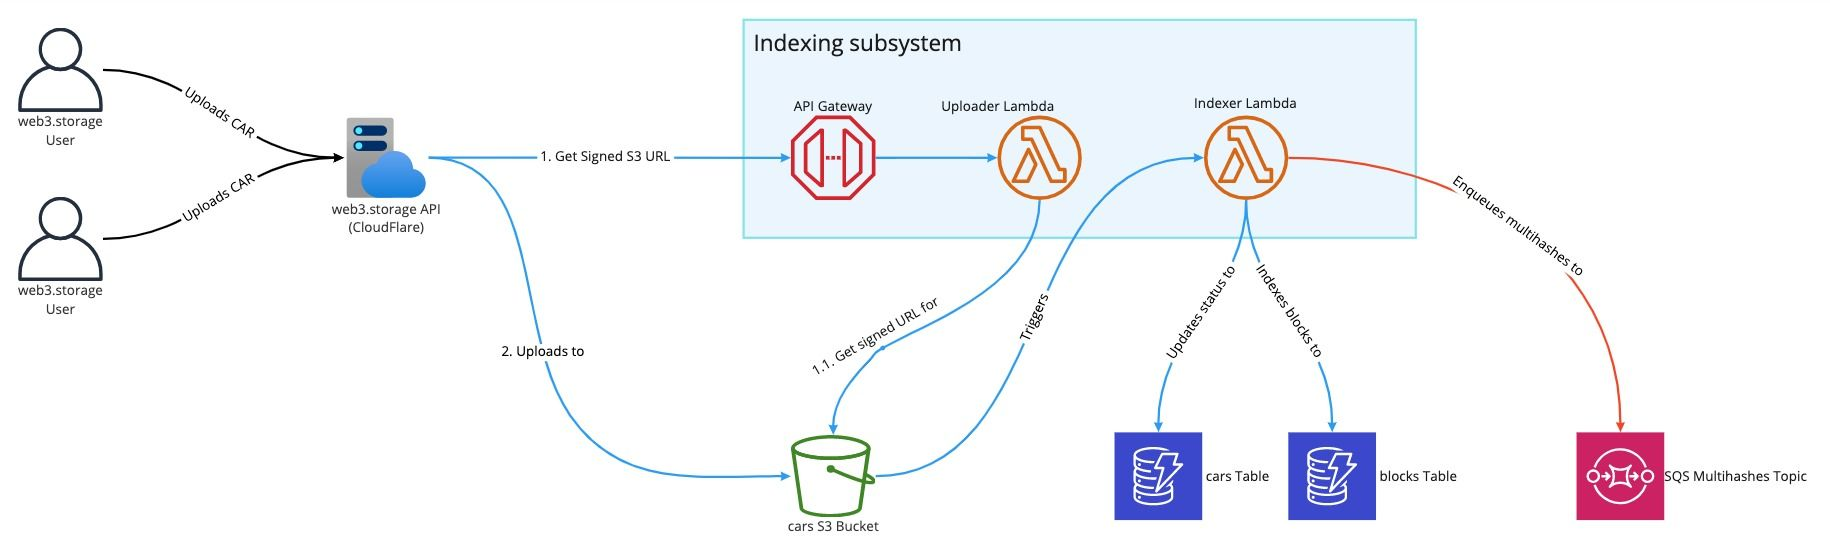
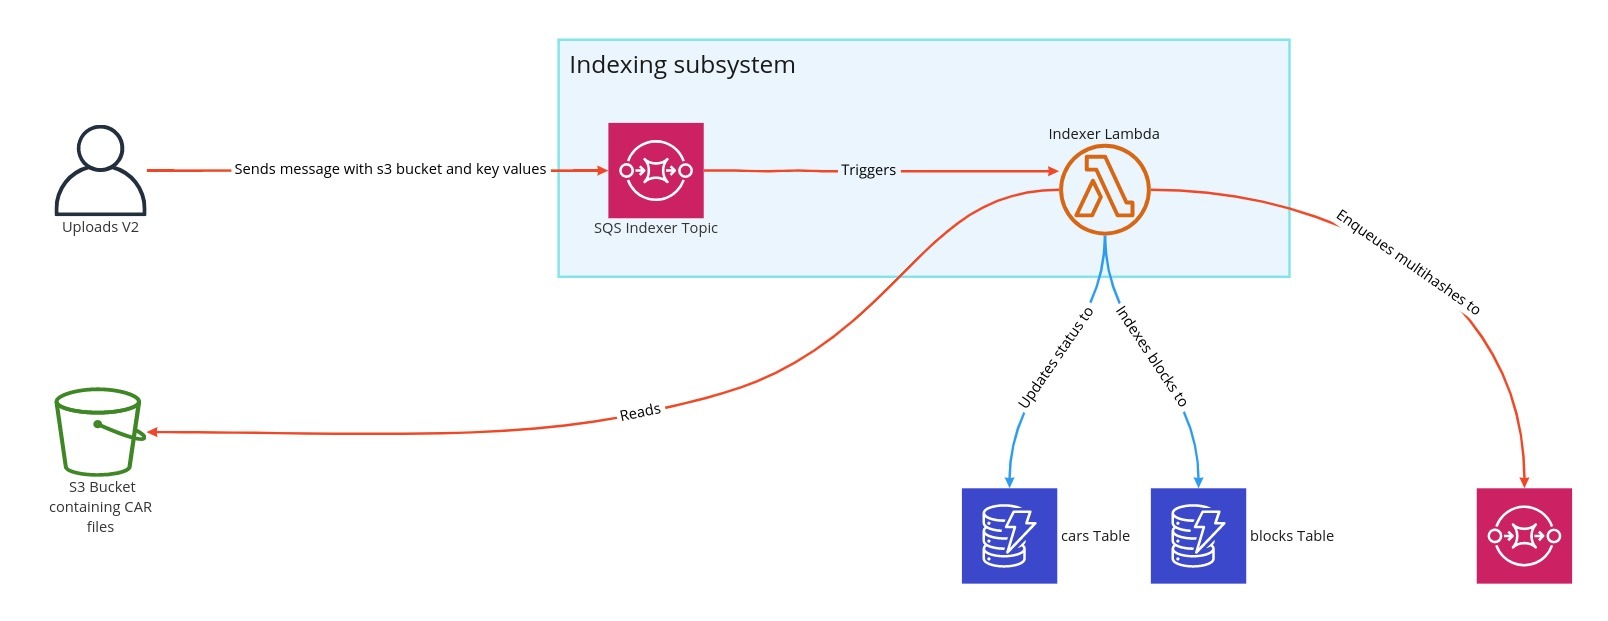
Updated diagrams

diff --git a/README.md b/README.md
@@ -16,7 +16,7 @@ The first version of [IPFS Elastic Provider](https://www.notion.so/IPFS-Elastic-
 
 # Detailed infrastructure architecture
 
-![IPFSSingleNode-v5.drawio.png](assets/images/IPFSSingleNode-v5.drawio.png)
+![IPFSSingleNode-v5.drawio.png](assets/images/IPFSSingleNode-v6.drawio.png)
 
 # Components
 
